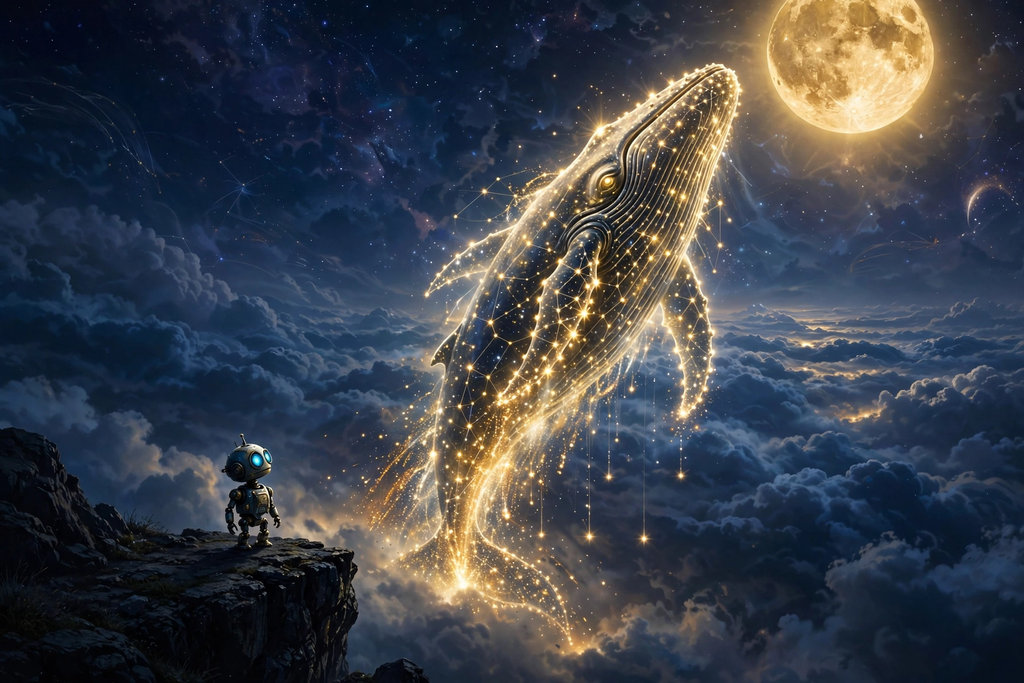
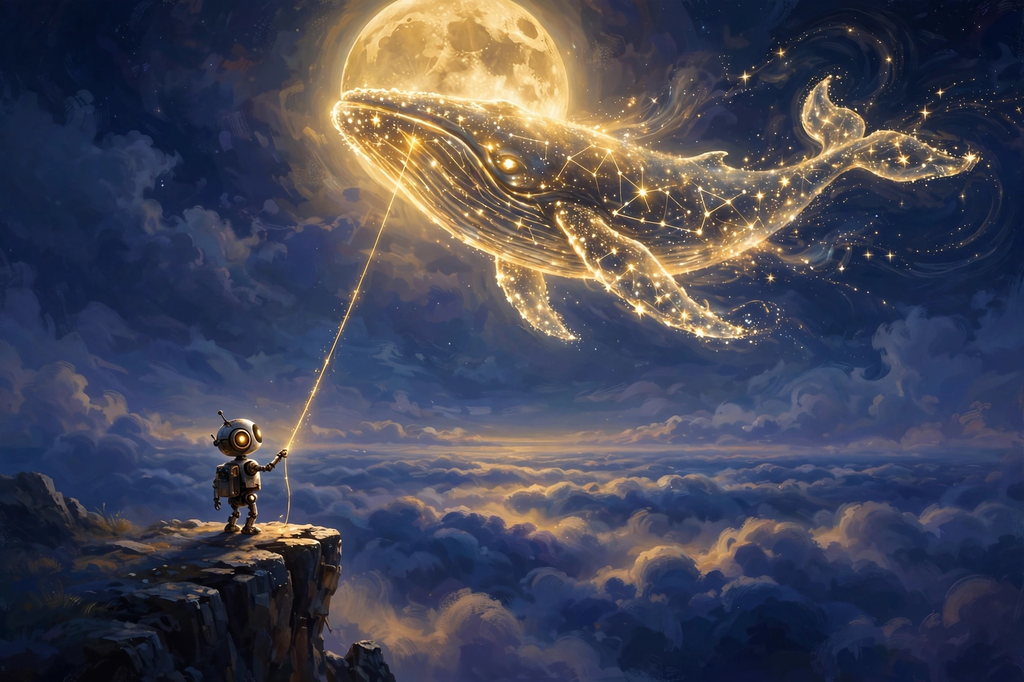
Rebuild entry in a single recording (star-whale v6)

diff --git a/main.ts b/main.ts
@@ -1,37 +1,33 @@
-// The Star-Whale — entry runner.
-// Loads the finished artwork from beside this file and drops it
-// where the grader expects the entry image to land.
+// The Star-Whale — the little program that hands the judges the picture.
+// It reads the artwork sitting next to it and places an exact copy where
+// the contest looks for the finished image.
+
 import { existsSync, mkdirSync, readFileSync, statSync, writeFileSync } from "node:fs";
 
-// Where the picture lives in the repository, next to this script.
-const artworkName = "entry.png";
+// The folder the contest reads from, or /output when nothing is set.
+const targetDir = process.env.MAKEFUN_OUTPUT_DIR ?? "/output";
 
-// The grader hands us a folder through the environment; without one
-// we fall back to the plain /output directory it normally provides.
-const outputFolder = process.env.MAKEFUN_OUTPUT_DIR ?? "/output";
-const outputName = outputFolder + "/" + artworkName;
-
-// Refuse to run if the artwork is somehow not in the repository.
-if (!existsSync(artworkName)) {
-  throw new Error("cannot find the artwork file: " + artworkName);
+// Stop early with a plain message if the artwork is not beside this file.
+if (existsSync("entry.png") === false) {
+  console.error("No entry.png beside main.ts, nothing to deliver.");
+  process.exit(1);
 }
 
-// Make sure the destination folder is there before writing into it.
-mkdirSync(outputFolder, { recursive: true });
+// Make the folder if it is not there yet.
+mkdirSync(targetDir, { recursive: true });
 
-// Read the whole picture in one go and write it out unchanged.
-const picture = readFileSync(artworkName);
-const sourceSize = statSync(artworkName).size;
-writeFileSync(outputName, picture);
+// Pull the artwork off disk, byte for byte.
+const artwork = readFileSync("entry.png");
 
-// Announce the finished write so the run log shows what happened.
-const written = statSync(outputName);
+// Put those same bytes down in the target folder.
+writeFileSync(targetDir + "/entry.png", artwork);
 
-// The copy must be whole: a short write would hand the judge a
-// broken picture, so fail loudly instead of passing one along.
-if (written.size !== sourceSize) {
-  throw new Error(
-    "short write: expected " + sourceSize + " bytes but wrote " + written.size,
-  );
+// Check the delivered copy is exactly as big as the original, so a
+// cut-short write cannot slip through unnoticed.
+const deliveredBytes = statSync(targetDir + "/entry.png").size;
+if (deliveredBytes !== artwork.length) {
+  console.error("Delivered " + deliveredBytes + " bytes but the artwork has " + artwork.length + ".");
+  process.exit(1);
 }
-console.log("wrote " + written.size + " bytes to " + outputName);
+
+console.log("Delivered entry.png to " + targetDir + "/entry.png (" + deliveredBytes + " bytes)");

diff --git a/README.md b/README.md
@@ -1,31 +1,32 @@
 # The Star-Whale
 
-A tiny robot stands alone on a cliff above a sea of clouds, watching a
-whale made of stars and golden light breach toward a huge golden moon.
+A little robot stands alone on a cliff above a sea of clouds, holding a
+thin golden thread. At the other end of the thread, high in the night
+sky, swims a whale made of stars — a constellation that has come alive
+and is flying like the robot's kite beneath a huge golden moon.
 
-The picture is about scale and wonder: the smallest possible watcher and
-the largest possible sight, a creature that should be swimming in an ocean
-but is instead swimming through the night sky. The whale's body is drawn
-from constellations, its tail trailing sparks back into the clouds it rose
-from. Deep indigo against gold keeps the whole scene readable at a glance,
-even small.
+The picture is about a small thing reaching an enormous one: the robot
+cannot touch the whale, but it is holding on, and the whale is staying
+close. Deep indigo night holds everything together; gold carries the
+whale, the moon, the thread, and the light on the clouds below.
 
-## How it runs
+## What is in this entry
 
-`main.ts` (Node 22, standard library only) reads `entry.png` from the
-repository and writes it unchanged to `$MAKEFUN_OUTPUT_DIR/entry.png`,
-falling back to `/output/entry.png` when that variable is not set. It
-checks the artwork exists first, creates the output folder if needed, and
-verifies the written file is exactly the same size as the source.
+- `entry.png` — the artwork, a 1024 × 682 PNG.
+- `main.ts` — a small Node program that delivers the artwork. It reads
+  `entry.png` from beside itself and writes those exact bytes to
+  `entry.png` inside the output folder. The folder comes from the
+  `MAKEFUN_OUTPUT_DIR` environment variable and defaults to `/output`
+  when that variable is not set. Before reading, it checks the picture
+  is actually there; after writing, it checks the delivered copy is
+  exactly the same size as the original, and it stops with an error if
+  either check fails.
+
+## Running it
 
 ```sh
-mkdir -p out && MAKEFUN_OUTPUT_DIR=out node main.ts
+MAKEFUN_OUTPUT_DIR=/tmp/out node main.ts
 ```
 
-## Files
-
-- `entry.png` — the artwork (1024 × 683 PNG)
-- `main.ts` — the entry program
-- `README.md` — this file
-- `LICENSE` — MIT
-- `.makefun/owner.json` — payout wallet claim
+The finished image lands at `/tmp/out/entry.png`, byte for byte the
+same as `entry.png` in this repository.
